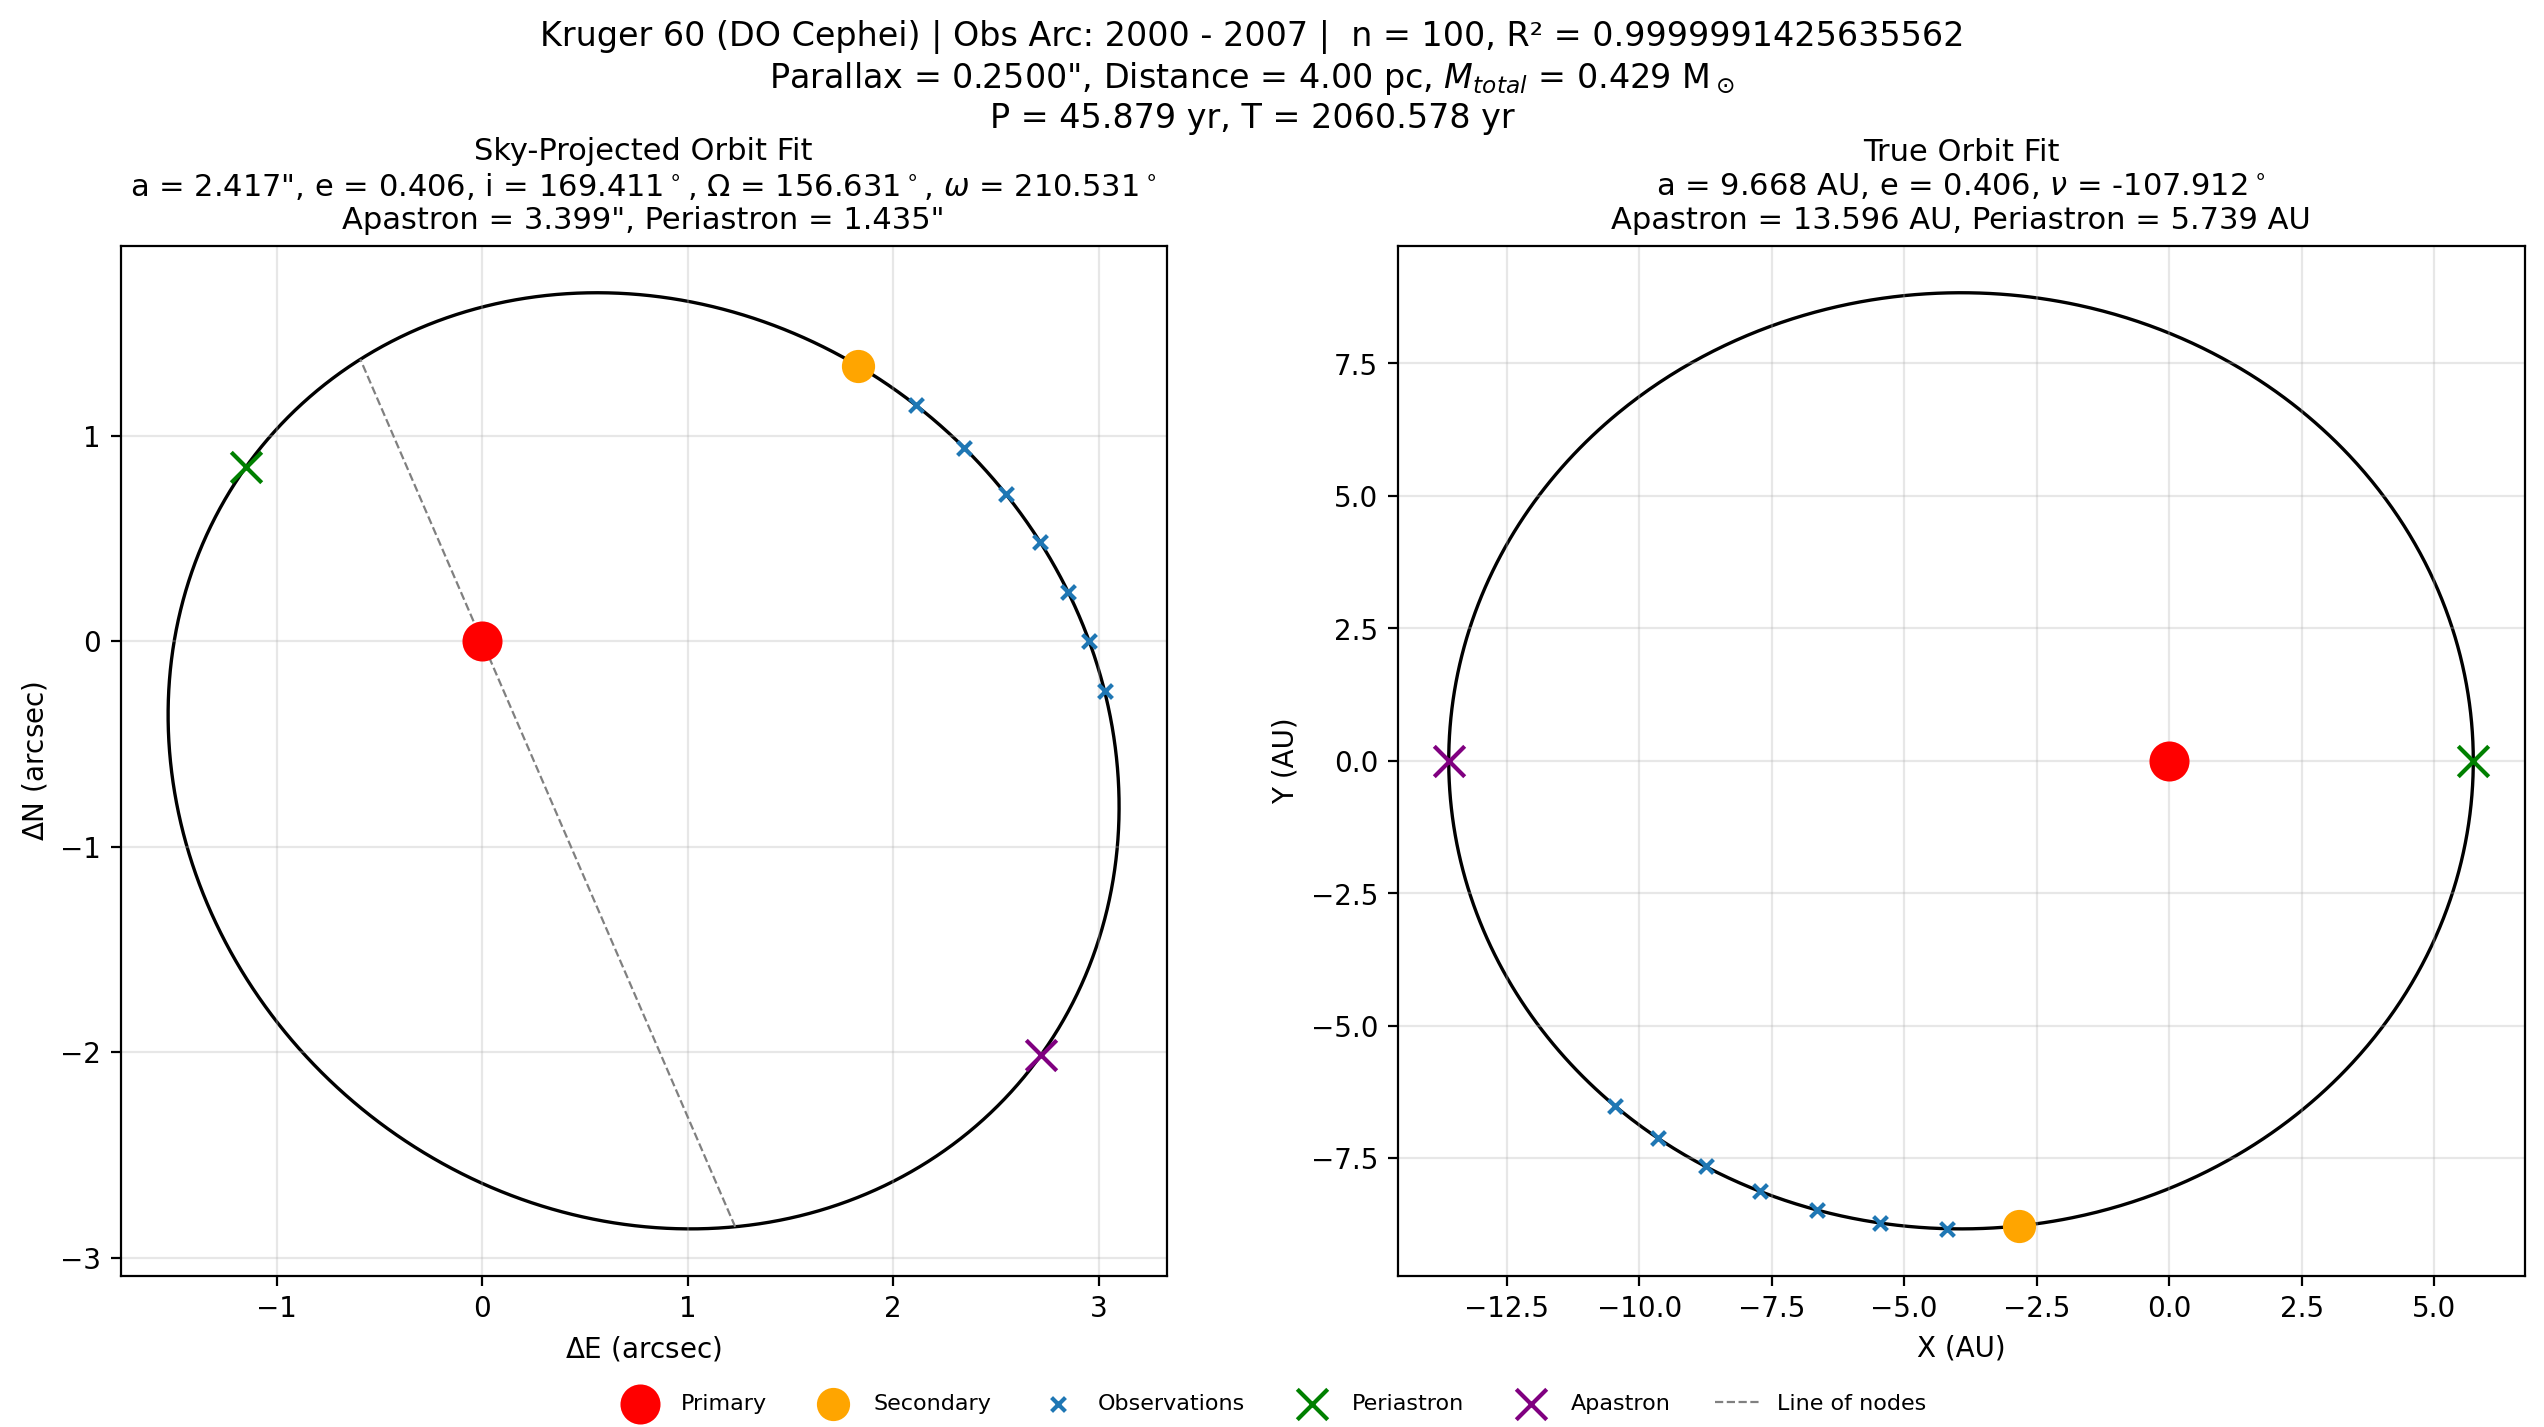
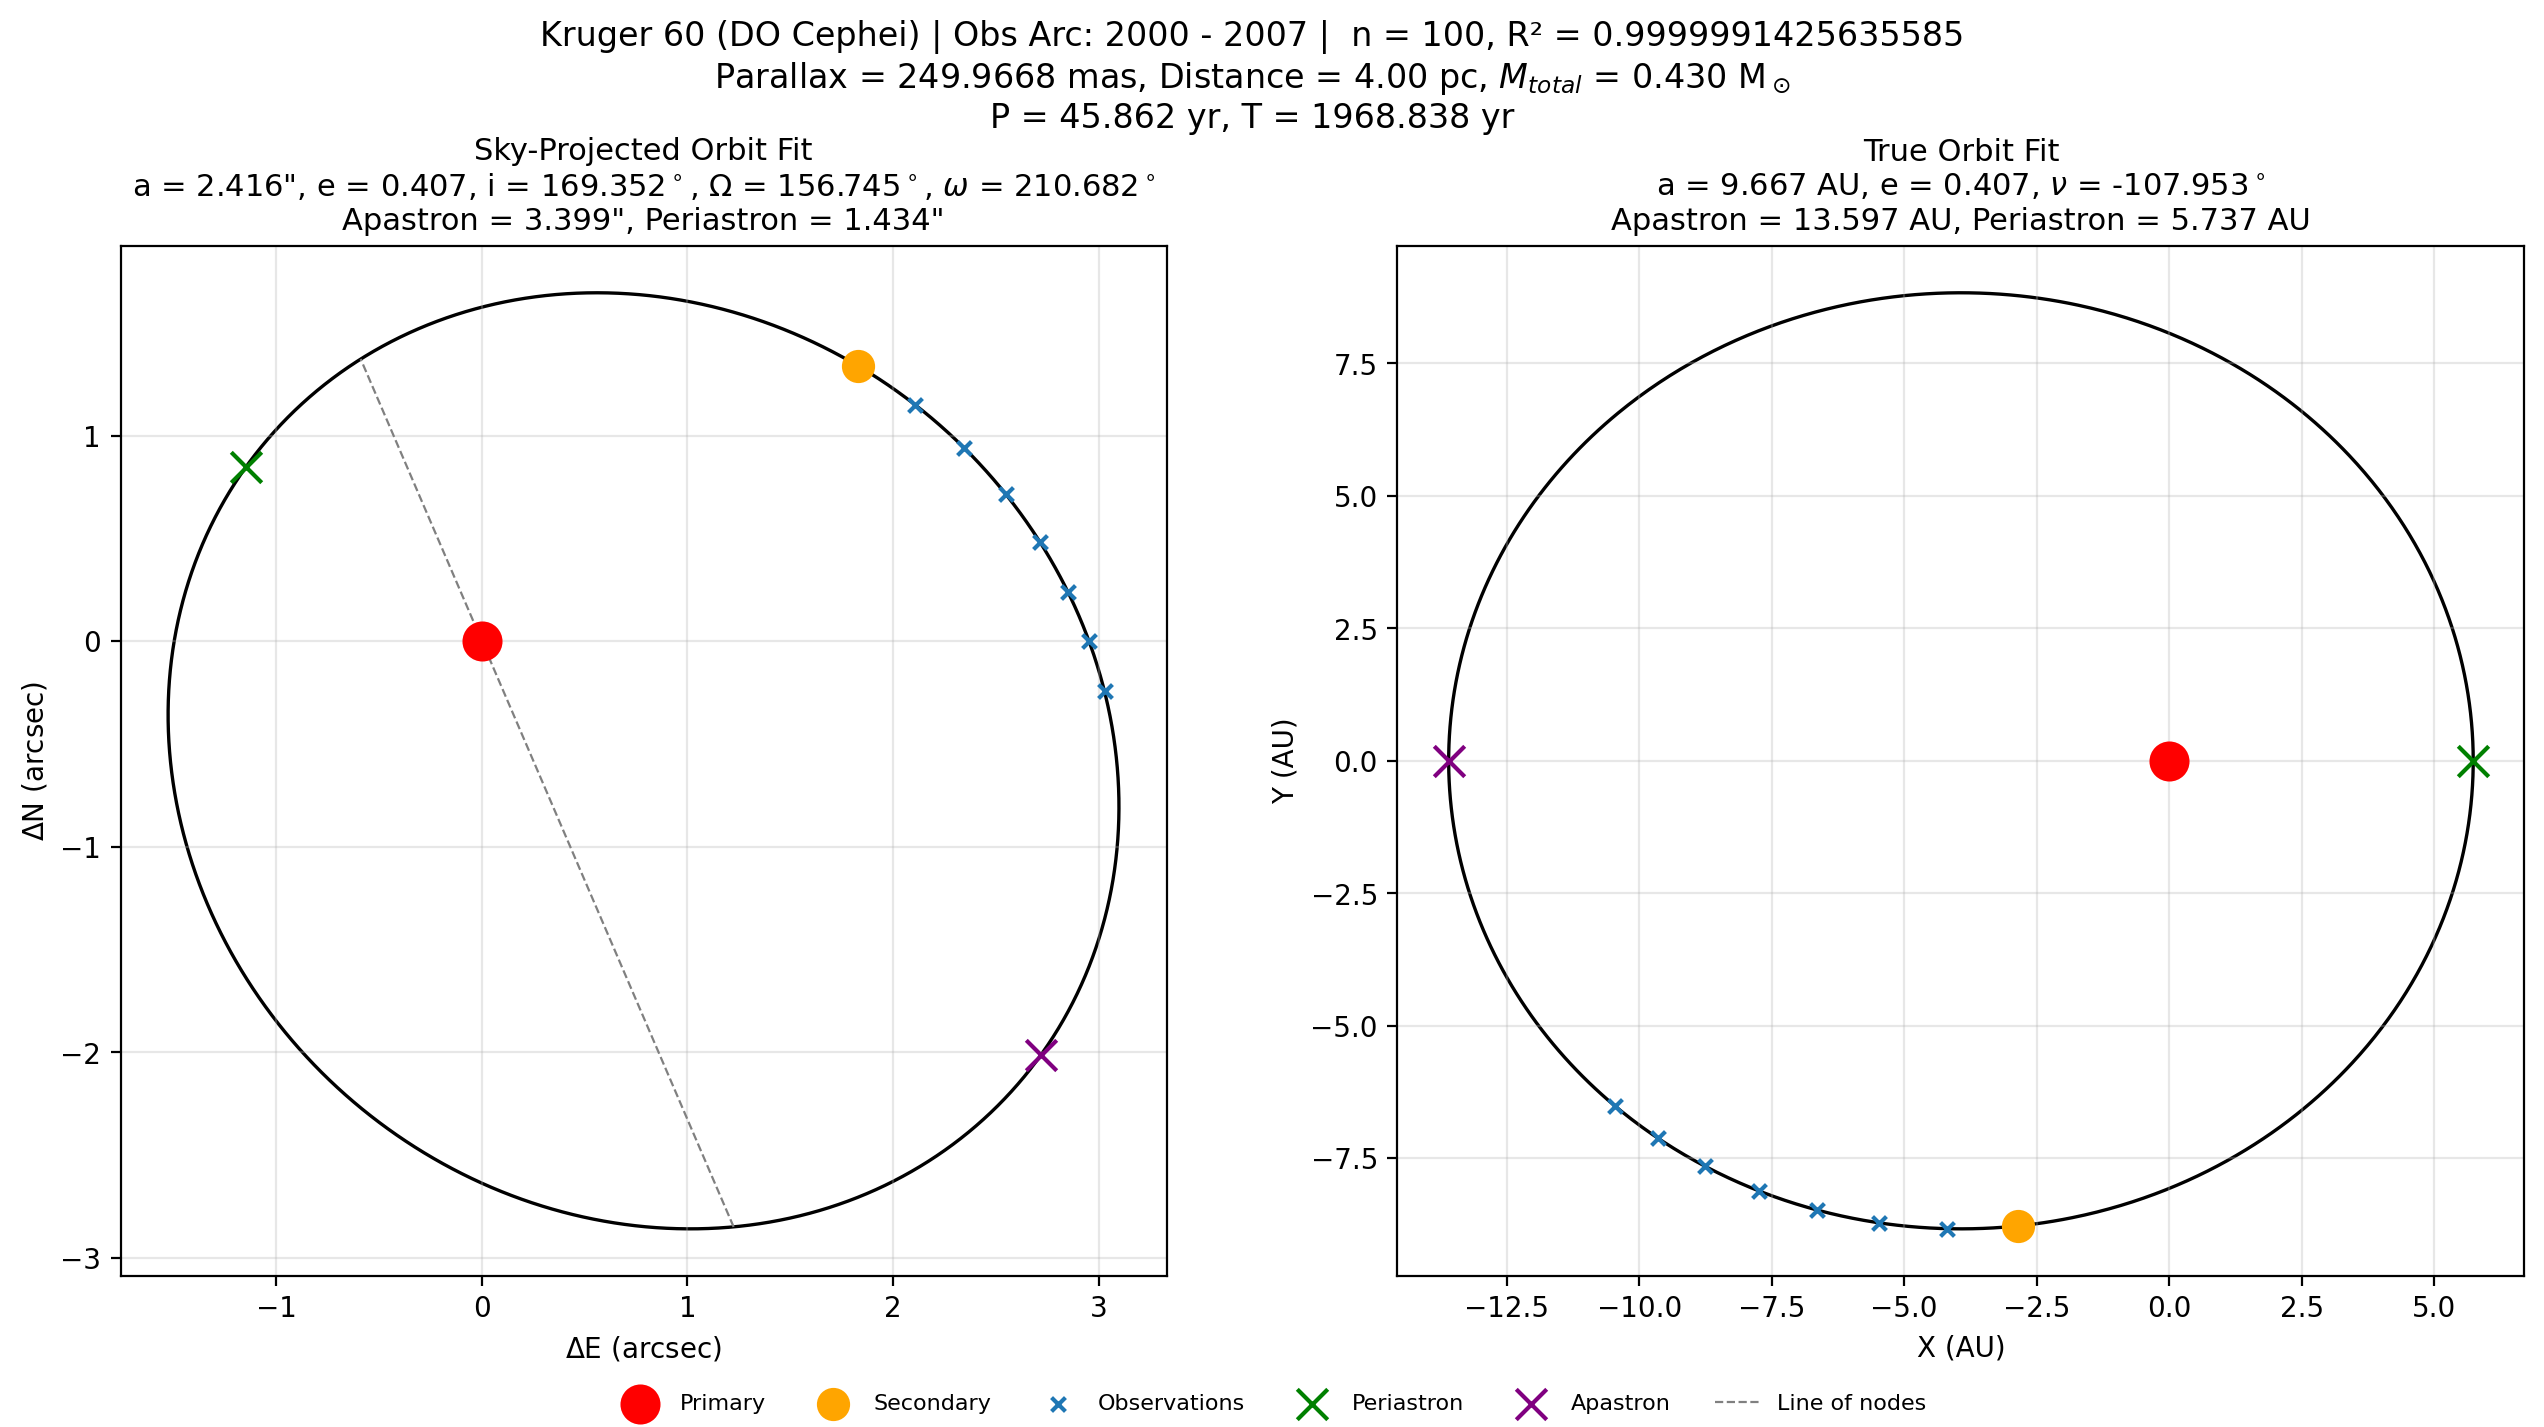
removed prints

diff --git a/orbit2.py b/orbit2.py
@@ -153,8 +153,8 @@ for k in range(n_starts):
 
 # Plot cost function convergence in log scale
 plt.figure(figsize=(8, 5))
-plt.semilogy(range(1, len(bestcost_list) + 1), bestcost_list, marker="o", markersize=4, color="tab:blue", label = "Best Residuals")
-plt.semilogy(range(1, len(solcost_list) + 1), solcost_list, "k-", marker="x", markersize=4, label = "All Residuals")
+plt.semilogy(range(1, len(bestcost_list) + 1), bestcost_list, marker="o", markersize=4, color="tab:blue", label = "Best Residuals", zorder = 2)
+plt.semilogy(range(1, len(solcost_list) + 1), solcost_list, "k-", marker="x", markersize=4, label = "All Residuals", zorder = 1)
 
 plt.xlabel("Iteration")
 plt.xlim(1, len(bestcost_list))
@@ -176,7 +176,6 @@ ss_tot = np.sum((obs - obs.mean())**2)
 r_squared = 1 - ss_res / ss_tot
 
 
-print(f"Best-fit orbital elements:  P = {P:.3f} yr, T = {T:.3f} yr, e = {e:.3f}, a = {a:.3f}\", ")
 # ----------------------------------------------------------------------
 # Physical quantities: distance scaling + Kepler's third law
 # ----------------------------------------------------------------------
@@ -322,7 +321,7 @@ while T <= t_obs[0] - P:
 
 fig.suptitle(
     f'{target} | Obs Arc: {t_obs[0]:.0f} - {t_obs[-1]:.0f} |  n = {n_starts}, R² = {r_squared}\n'
-    f'Parallax = {parallax_arcsec:.4f}", Distance = {d_pc:.2f} pc, $M_{{total}}$ = {M_total:.3f} M$_\\odot$\n'
+    f'Parallax = {parallax_mas:.4f} mas, Distance = {d_pc:.2f} pc, $M_{{total}}$ = {M_total:.3f} M$_\\odot$\n'
     f'P = {P:.3f} yr, T = {T:.3f} yr'
     , fontsize=12)
 